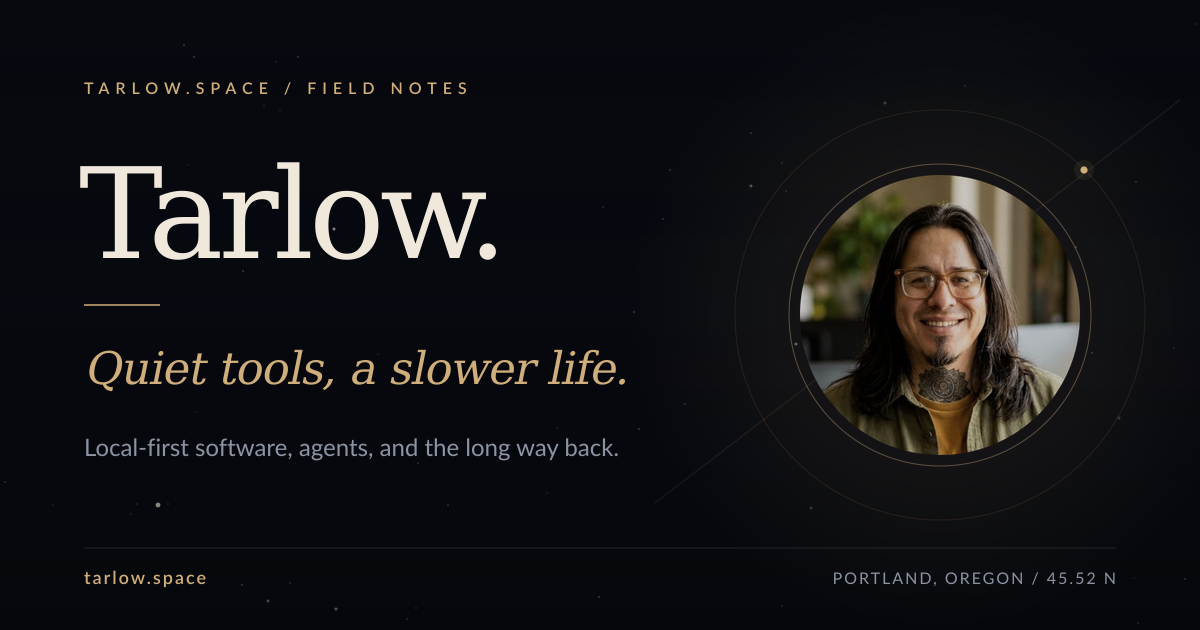
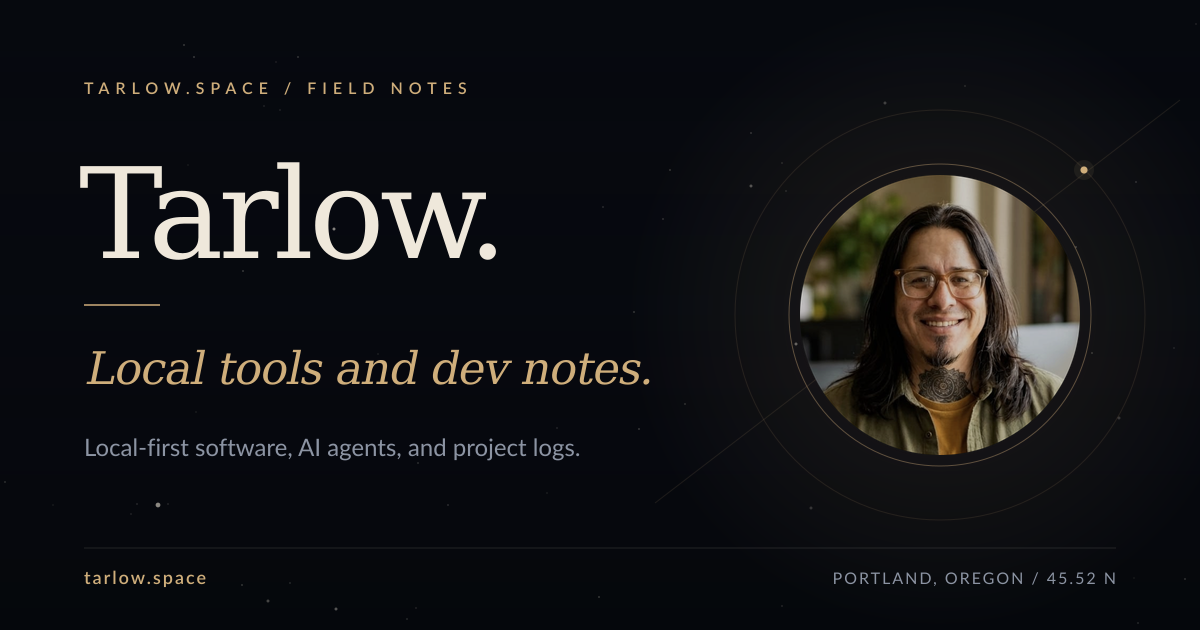
content: clean site page copy and metadata in updated voice
Replaces generic observatory/AI phrasing and stale Moss Toolbox status across Home, About, Projects, Journal, 404, Footer, RSS, and default OG metadata with current, direct copy.

Changed region(s): [[0.0617, 0.5429, 0.555, 0.6333], [0.2467, 0.6937, 0.5242, 0.7238]]

diff --git a/src/lib/site.ts b/src/lib/site.ts
@@ -13,16 +13,15 @@ export function nowMonth(date: Date = new Date()): string {
 }
 
 /**
- * Draft "Now" copy, drawn from the About page and the Moss AI Studio origin
- * story. These are the lines to edit first when the season changes. The month
- * label is not here on purpose - it comes from `nowMonth()`.
+ * Editable "Now" copy rendered on the home and About pages. The month label
+ * comes from `nowMonth()`.
  */
 export const NOW = {
   building: [
     { label: 'Marimo Bot', href: 'https://marimobot.com/' },
-    { label: 'Moss Toolbox', href: 'https://mossaistudio.com/' },
+    { label: 'Moss AI Studio', href: 'https://mossaistudio.com/' },
   ],
-  practicing: 'Awareness, patience, getting outside',
+  practicing: 'Testing local models, getting outside',
   home: 'Portland, Oregon',
   openTo: 'New builds + good conversations',
 } as const

diff --git a/src/pages/rss.xml.js b/src/pages/rss.xml.js
@@ -11,7 +11,7 @@ export async function GET(context) {
 
   return rss({
     title: 'Tarlow.space',
-    description: 'Field notes from Tarlow, a solo developer in Portland, Oregon. Local-first tools, a slower way of building, and a look in the past.',
+    description: 'Notes and projects from Tarlow, a solo developer in Portland, Oregon. Local-first tools, AI agents, and software builds.',
     site: context.site,
     items: posts.map((post) => ({
       title: post.data.title,
